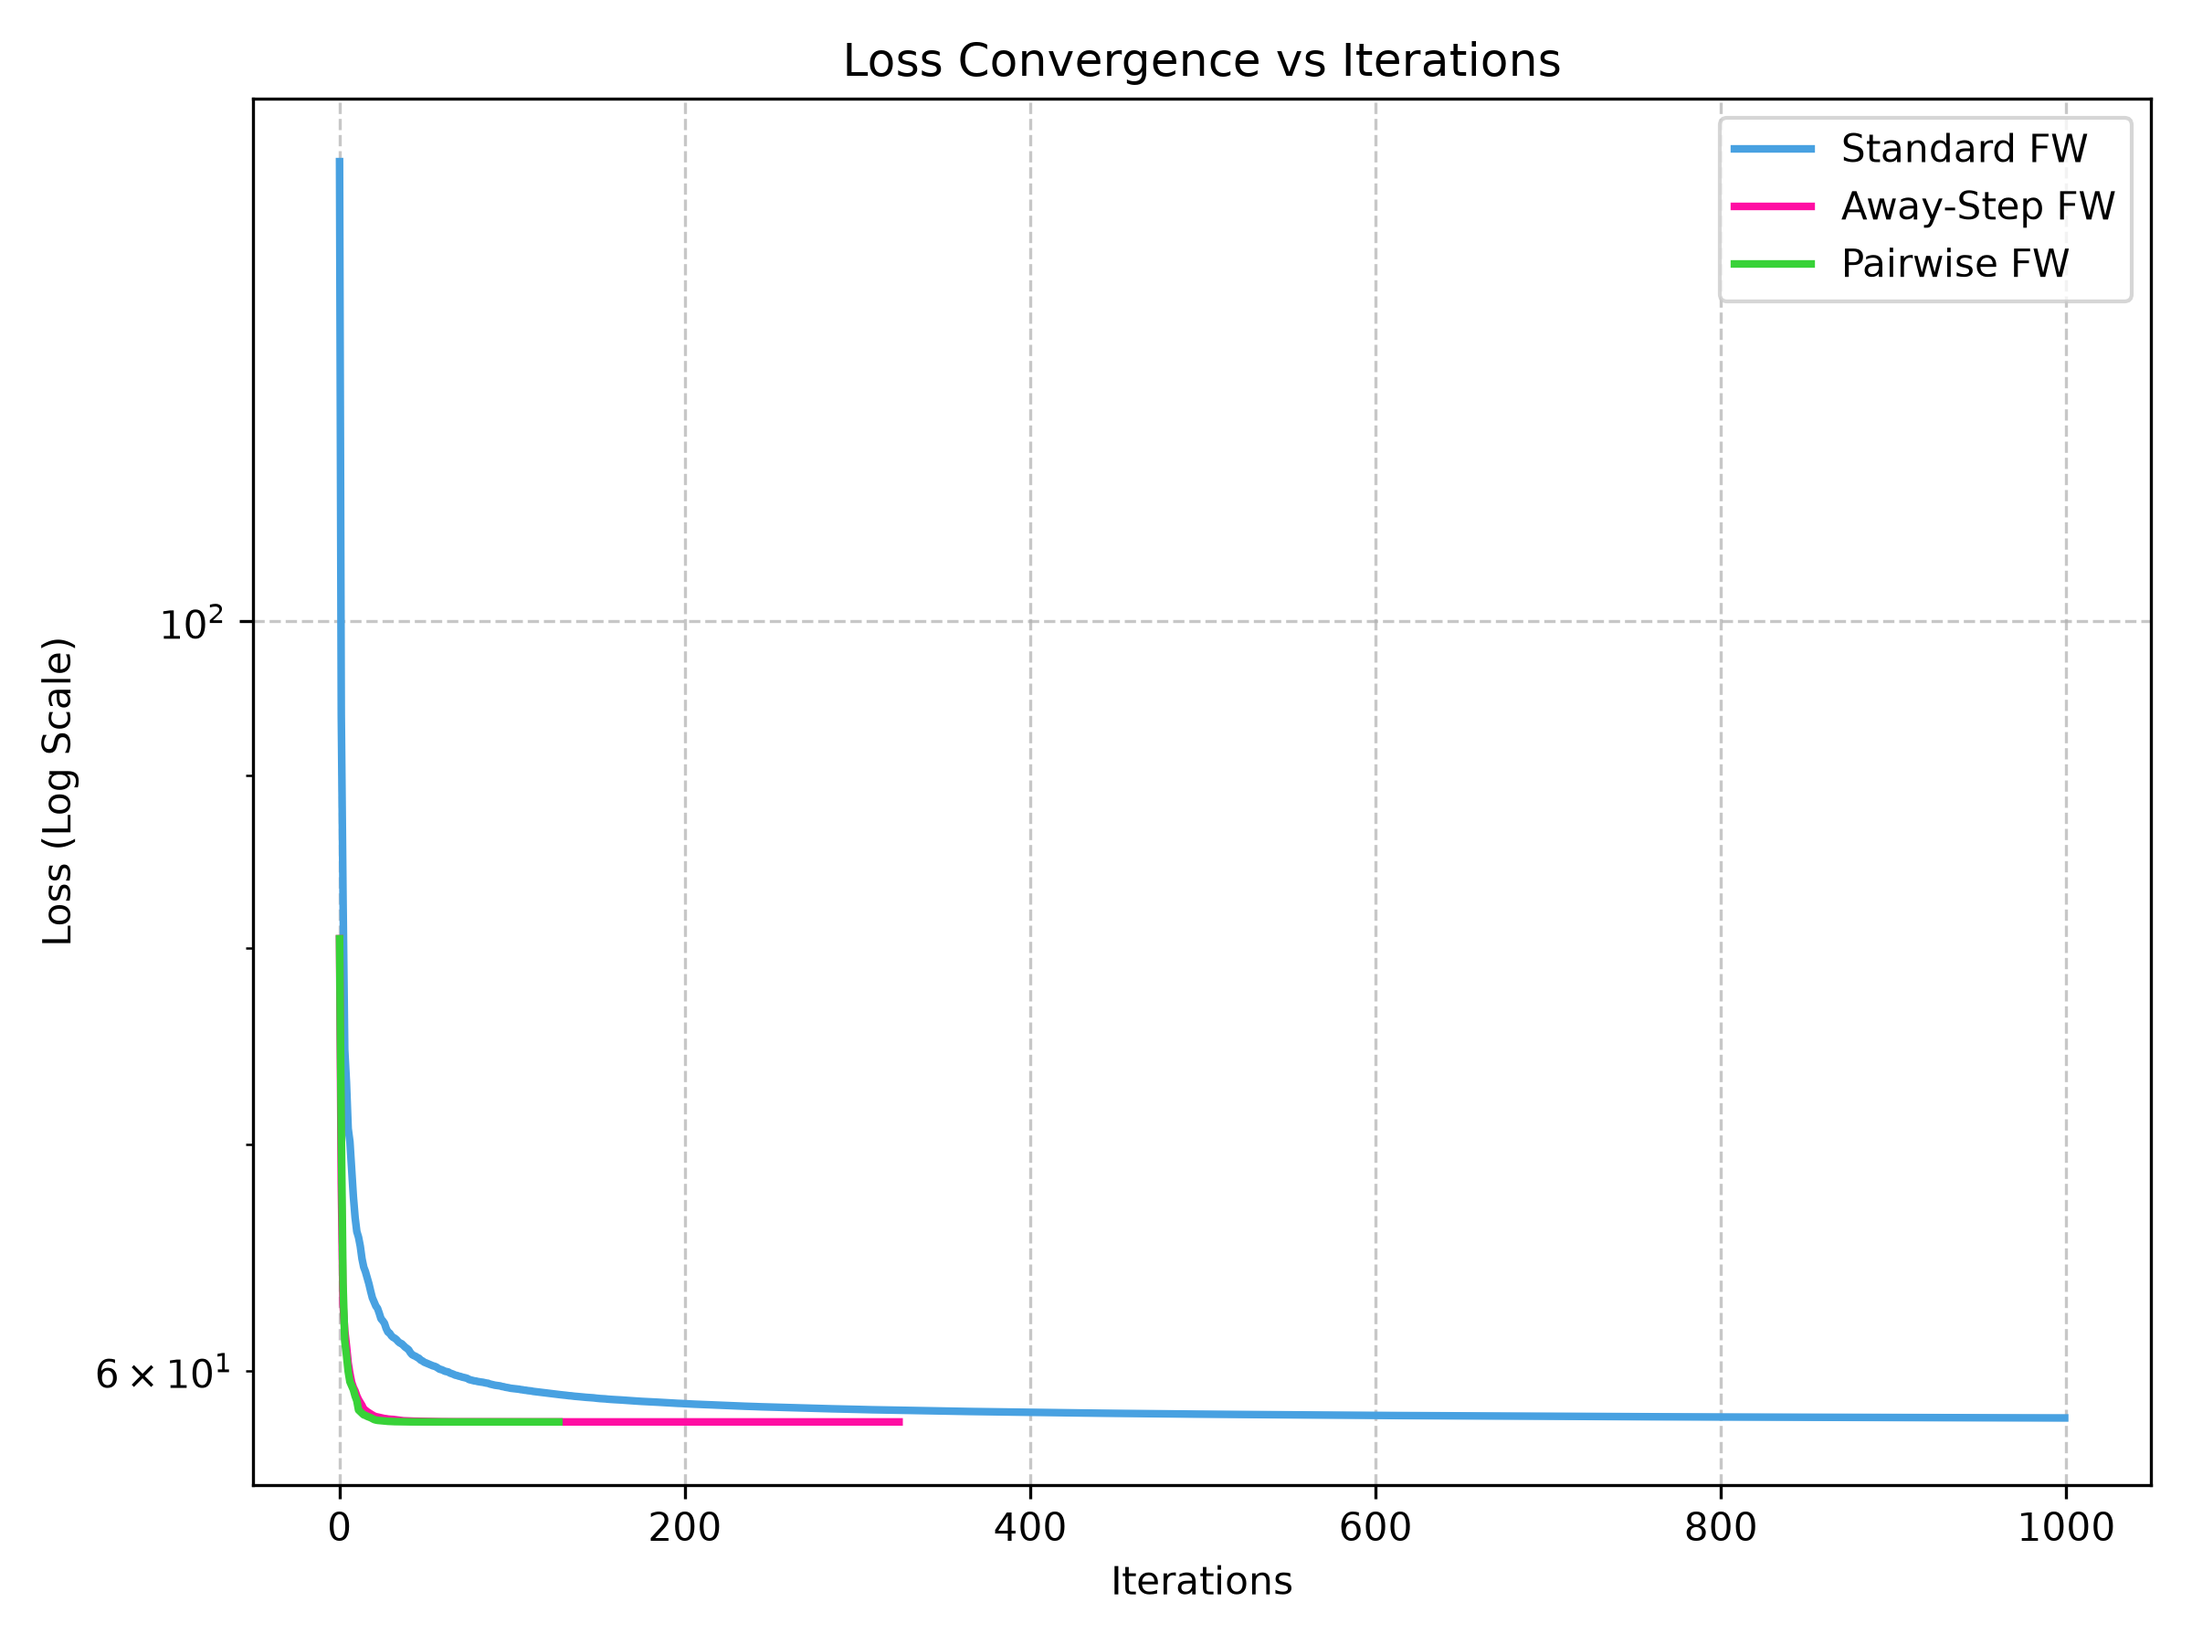
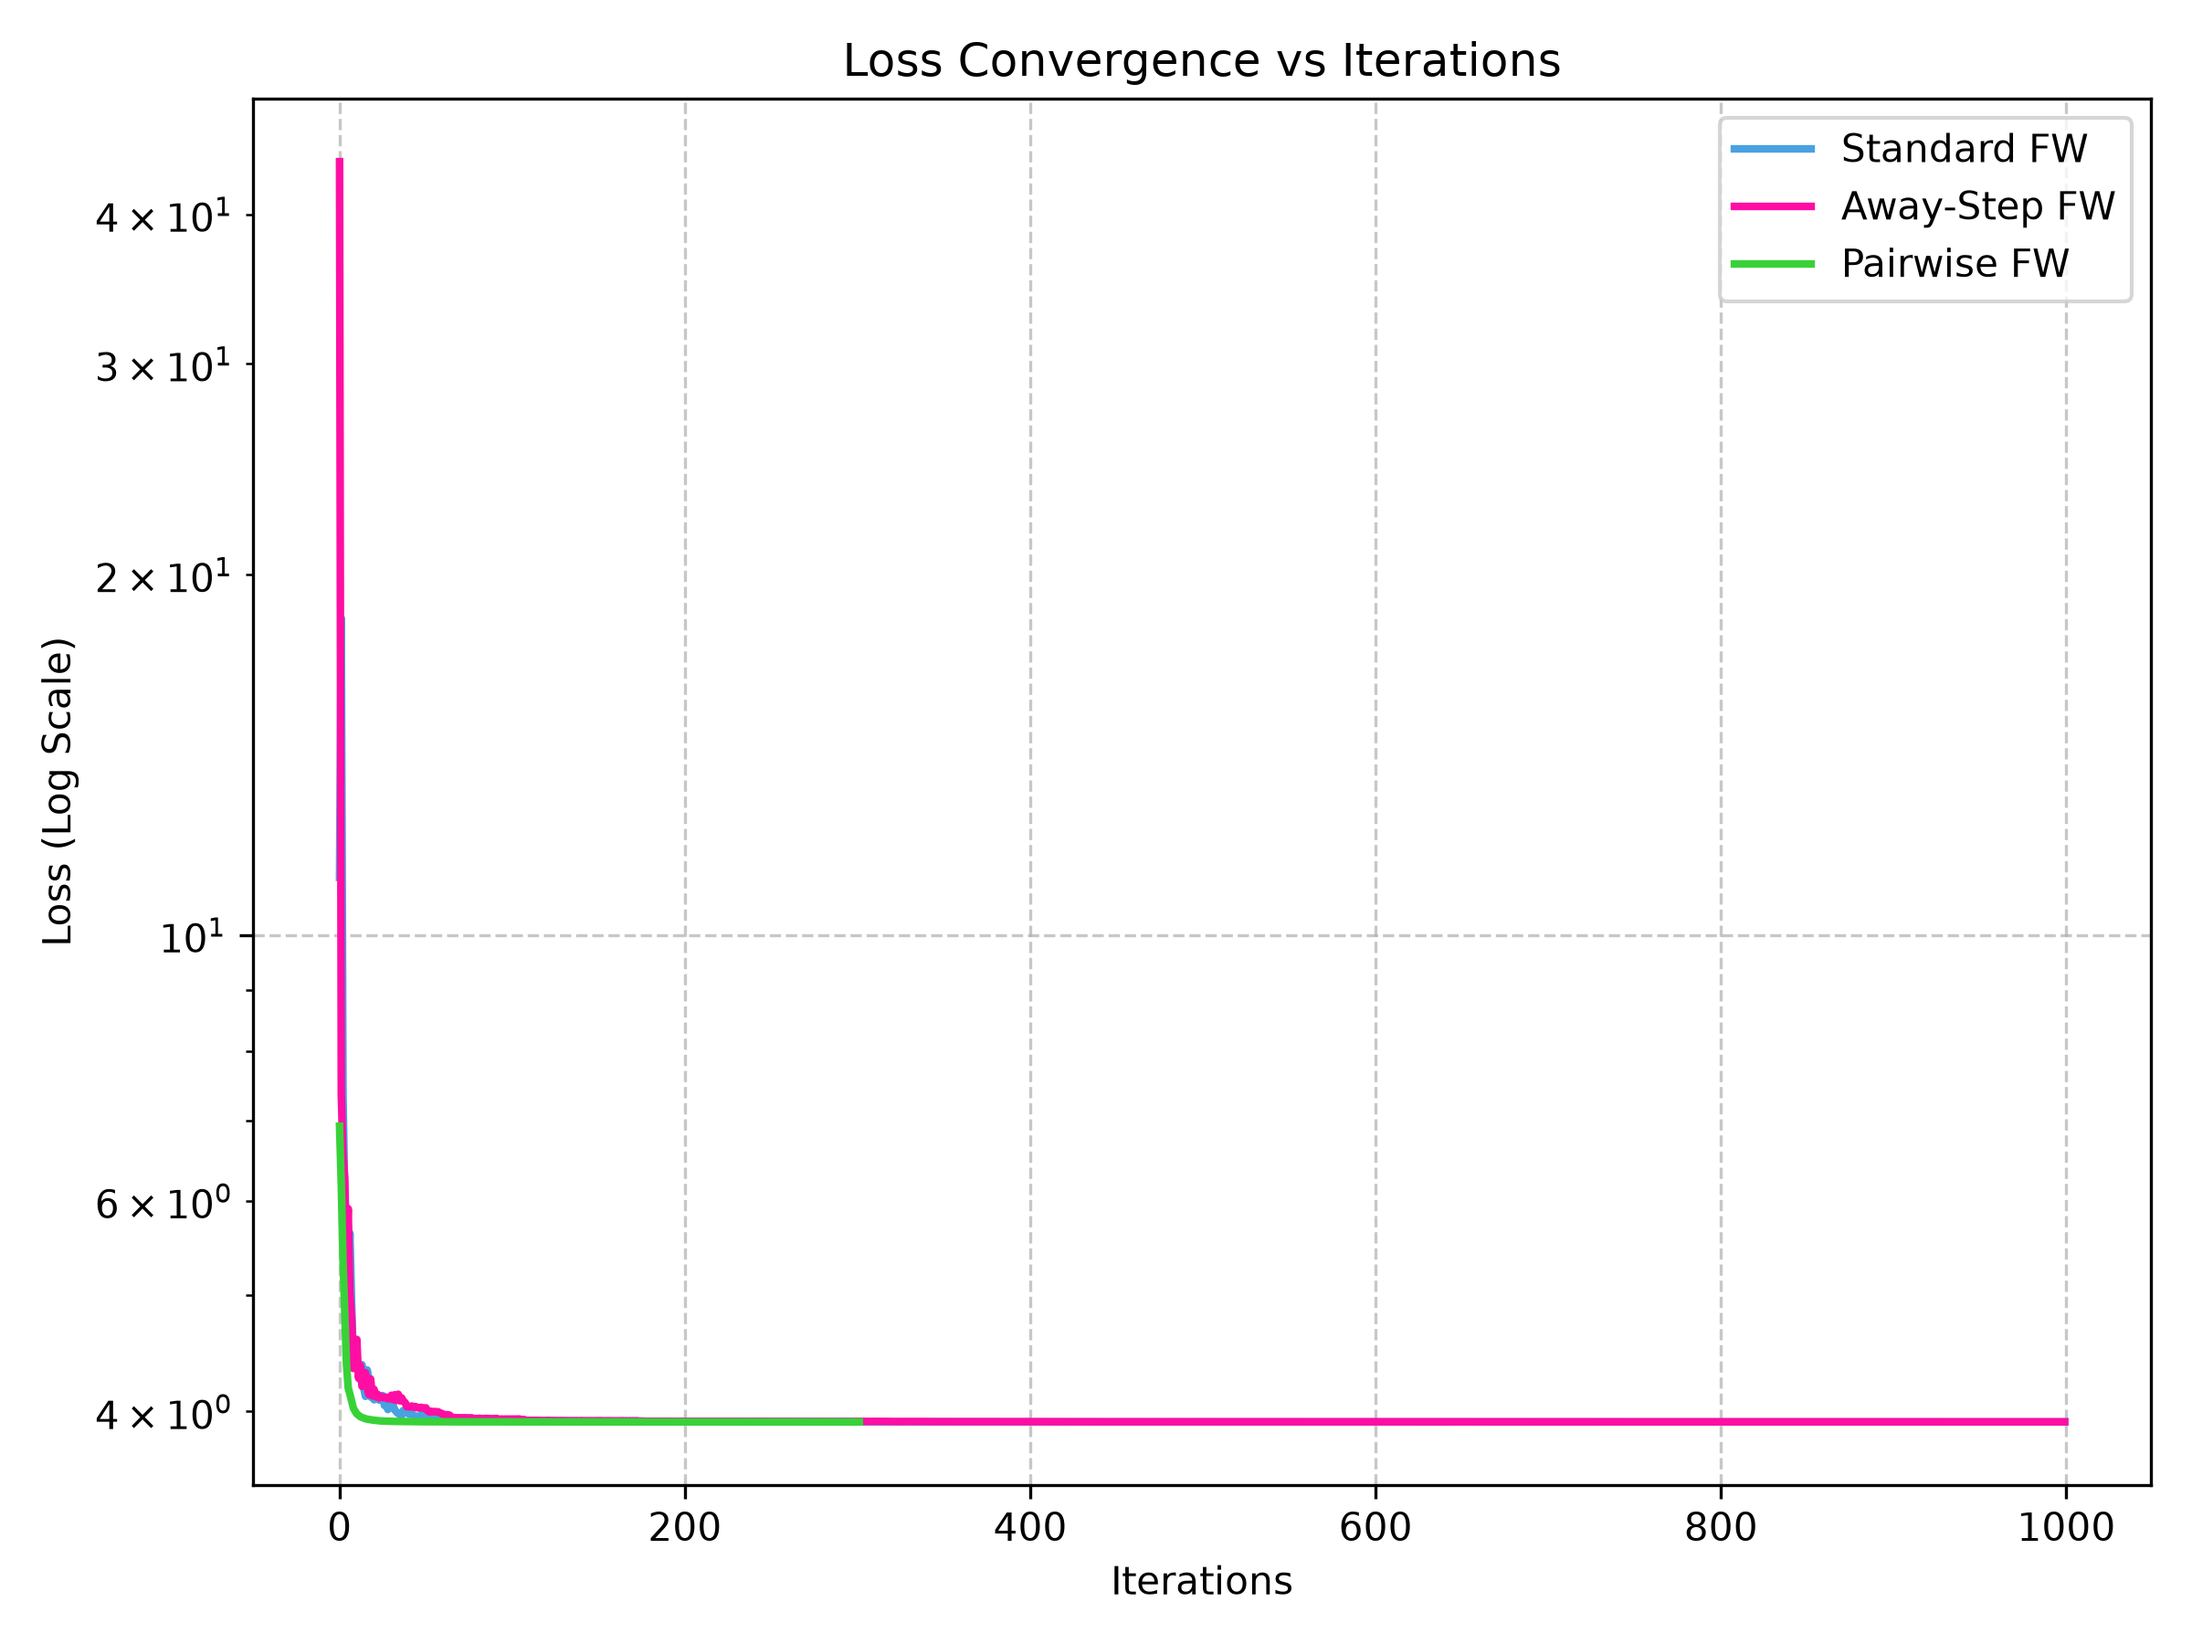
prova di implementazione diminuishing stepsize

diff --git a/algorithm.py b/algorithm.py
@@ -1,3 +1,4 @@
+from numpy.random import gamma
 import pandas as pd
 import numpy as np
 from sklearn.preprocessing import StandardScaler
@@ -69,13 +70,13 @@ def lmo_l1(gradient, tau):
 
 # 2. Frank-Wolfe algorithm for LASSO
 class FrankWolfeLasso:
-    def __init__(self, tau, max_iter=1000, tolerance=1e-4, w_tolerance=1e-8):
+    def __init__(self, tau, step_size='exact', max_iter=1000, tolerance=1e-4, w_tolerance=1e-8):
         self.tau = tau
+        self.step_size = step_size
         self.iter = max_iter
         self.tol = tolerance
         self.w_tolerance = w_tolerance
         self.convergence = False
-
 
         self.history_loss = []
         self.history_gap = []
@@ -102,16 +103,21 @@ class FrankWolfeLasso:
     def predict(self, X):
         return np.asarray(X, dtype=float) @ self.x_t
 
-    def predict_original_scale(self, X, y_scaler):
-        y_pred_scaled = self.predict(X)
-
-        return y_scaler.inverse_transform(
-            y_pred_scaled.reshape(-1, 1)
-        ).ravel()
-
     def mse_score(self, X, y):
         y_pred = self.predict(X)
         return np.mean((np.asarray(y) - y_pred) ** 2)
+
+    def line_search(self, X, grad, direction, gamma_max=1.0):
+        Xd = X @ direction
+        den = np.sum(Xd ** 2)
+        if den < 1e-10:
+            return 0.0
+
+        opt_alpha = -np.dot(grad, direction) / den
+        return np.clip(opt_alpha, 0.0, gamma_max)
+    
+    def diminishing_step_size(self, t, gamma_max=1.0):
+        return min(2.0 / (t + 2.0), gamma_max)
     
     def fit(self, X, y):
         n_samples, n_features = X.shape
@@ -136,30 +142,28 @@ class FrankWolfeLasso:
             
             # 5. stopping criterion: if the gap is smaller than the tolerance, we stop
             if gap <= self.tol:
+                self.update_history(X, y, gap, t0, self.mse_score(X, y))
                 print(f"self.convergence obtained at iteration {t} with gap: {gap:.6f}")
-                self.convergence = True
             
             # 6. line search, choose gamma (learning rate)
-            Xd = X @ d_t
-            opt_gamma = gap / (np.sum(Xd ** 2) + 1e-10) 
-            
-            gamma = np.clip(opt_gamma, 0.0, 1.0)
+            if self.step_size == 'exact':
+                gamma = self.line_search(X, grad, d_t)
+            elif self.step_size == 'diminishing':
+                gamma = self.diminishing_step_size(t)
+            else:
+                raise ValueError("step_size must be either 'exact' or 'diminishing'")
             
             self.x_t = self.x_t + gamma * d_t
 
-            mse = self.mse_score(X, y)
-
-            self.update_history(X, y, gap, t0, mse)
-
-            if self.convergence:
-                break
+            self.update_history(X, y, gap, t0, self.mse_score(X, y))
             
         return self.x_t
 
 # 3. Away-step Frank-Wolfe for LASSO
 class AwayStepsFrankWolfeLasso:
-    def __init__(self, tau, max_iter=1000, tolerance=1e-4, w_tolerance=1e-8):
+    def __init__(self, tau, step_size='exact', max_iter=1000, tolerance=1e-4, w_tolerance=1e-8):
         self.tau = tau
+        self.step_size = step_size
         self.iter = max_iter
         self.tol = tolerance
         self.w_tolerance = w_tolerance
@@ -190,39 +194,21 @@ class AwayStepsFrankWolfeLasso:
     def predict(self, X):
         return np.asarray(X, dtype=float) @ self.x_t
 
-    def predict_original_scale(self, X, y_scaler):
-        y_pred_scaled = self.predict(X)
-
-        return y_scaler.inverse_transform(
-            y_pred_scaled.reshape(-1, 1)
-        ).ravel()
-
     def mse_score(self, X, y):
         y_pred = self.predict(X)
         return np.mean((np.asarray(y) - y_pred) ** 2)
 
-    def exact_line_search(self, X, y, grad, direction, alpha_max):
-        if np.max(np.abs(direction)) < 1e-14:
-            alpha = 0.0
-        else:
-            Xd = X @ direction
-            den = np.sum(Xd ** 2)
-            if den < 1e-10:
-                alpha = 0.0
-            else:
-                opt_alpha = -np.dot(grad, direction) / den
-                alpha = np.clip(opt_alpha, 0.0, alpha_max)
-        return alpha
-
-    def line_search(self, X, y, grad, direction, alpha_max):
+    def line_search(self, X, grad, direction, gamma_max):
         Xd = X @ direction
         den = np.sum(Xd ** 2)
         if den < 1e-10:
-            alpha = 0.0
-        else:
-            opt_alpha = -np.dot(grad, direction) / den
-            alpha = np.clip(opt_alpha, 0.0, alpha_max)
-        return alpha
+            return 0.0
+
+        opt_alpha = -np.dot(grad, direction) / den
+        return np.clip(opt_alpha, 0.0, gamma_max)
+
+    def diminishing_step_size(self, t, gamma_max):
+        return min(2.0 / (t + 2.0), gamma_max)
     
     def fit(self, X, y):
         n_samples, n_features = X.shape
@@ -268,7 +254,8 @@ class AwayStepsFrankWolfeLasso:
 
             if fw_gap <= self.tol:
                 print(f"self.convergence obtained at iteration {i} with gap: {fw_gap:.6f}")
-                self.convergence = True
+                self.update_history(X, y, fw_gap, t0, self.mse_score(X, y))   
+                break
 
             # direction and overflow protection
             away_gap = -np.dot(grad, self.x_t - v_vec)
@@ -287,7 +274,12 @@ class AwayStepsFrankWolfeLasso:
                 is_fw_step = False
 
             # EXACT LINE SEARCH
-            alpha = self.line_search(X, y, grad, direction, alpha_max)
+            if self.step_size == 'exact':
+                alpha = self.line_search(X, grad, direction, alpha_max)
+            elif self.step_size == 'diminishing':
+                alpha = self.diminishing_step_size(i, alpha_max)
+            else:
+                raise ValueError("step_size must be either 'exact' or 'diminishing'")
 
             # UPDATE x
             self.x_t = self.x_t + alpha * direction
@@ -325,18 +317,14 @@ class AwayStepsFrankWolfeLasso:
             #     self.weights[v_key] = 0.0
             #     del self.weights[v_key]
 
-            mse = self.mse_score(X, y)  
-
-            self.update_history(X, y, fw_gap, t0, mse)   
-
-            if self.convergence:
-                break
+            self.update_history(X, y, fw_gap, t0, self.mse_score(X, y))
 
         return self.x_t
 
 class PairwiseFrankWolfeLasso:
-    def __init__(self, tau, max_iter=1000, tolerance=1e-4, w_tolerance=1e-8):
+    def __init__(self, tau, step_size = 'exact', max_iter=1000, tolerance=1e-4, w_tolerance=1e-8):
         self.tau = tau
+        self.step_size = step_size
         self.iter = max_iter
         self.tol = tolerance
         self.w_tolerance = w_tolerance
@@ -368,26 +356,21 @@ class PairwiseFrankWolfeLasso:
     def predict(self, X):
         return np.asarray(X, dtype=float) @ self.x_t
 
-    def predict_original_scale(self, X, y_scaler):
-        y_pred_scaled = self.predict(X)
-
-        return y_scaler.inverse_transform(
-            y_pred_scaled.reshape(-1, 1)
-        ).ravel()
-
     def mse_score(self, X, y):
         y_pred = self.predict(X)
         return np.mean((np.asarray(y) - y_pred) ** 2)
 
-    def line_search(self, X, y, grad, direction, alpha_max):
+    def line_search(self, X, grad, direction, gamma_max):
         Xd = X @ direction
         den = np.sum(Xd ** 2)
         if den < 1e-10:
-            alpha = 0.0
-        else:
-            opt_alpha = -np.dot(grad, direction) / den
-            alpha = np.clip(opt_alpha, 0.0, alpha_max)
-        return alpha
+            return 0.0
+
+        opt_alpha = -np.dot(grad, direction) / den
+        return np.clip(opt_alpha, 0.0, gamma_max)
+
+    def diminishing_step_size(self, t, gamma_max):
+        return min(2.0 / (t + 2.0), gamma_max)
         
     def fit(self, X, y):
         n_samples, n_features = X.shape
@@ -442,7 +425,12 @@ class PairwiseFrankWolfeLasso:
             alpha_max = self.weights[v_key]
 
             # 6. EXACT LINE SEARCH
-            alpha = self.line_search(X, y, grad, direction, alpha_max)
+            if self.step_size == 'exact':
+                alpha = self.line_search(X, grad, direction, alpha_max)
+            elif self.step_size == 'diminishing':
+                alpha = self.diminishing_step_size(i, alpha_max)
+            else:
+                raise ValueError("step_size must be either 'exact' or 'diminishing'")
 
             # 7. UPDATE x
             self.x_t = self.x_t + alpha * direction

diff --git a/main.py b/main.py
@@ -16,21 +16,25 @@ PLOT = True
 
 print("1. Loading dataset...")
 
-# file_name = 'data/riboflavin.csv' 
-file_name = 'data/wikivital_mathematics.json'
+file_name = 'data/riboflavin.csv' 
+# file_name = 'data/wikivital_mathematics.json'
 
-# X, Y = read_data.csv(file_name)
-X, Y = read_data.json(file_name)
+X, Y = read_data.csv(file_name)
+# X, Y = read_data.json(file_name)
 
 # 0.12 ee (12/76)
-X_temp, X_test, y_temp, y_test = train_test_split(X, Y, test_size=0.12, random_state=42)
-X_train, X_val, y_train, y_val = train_test_split(X_temp, y_temp, test_size=(0.12/0.76), random_state=42) # 0.25 x 0.8 = 0.2
+X_temp, X_test, y_temp, y_test = train_test_split(X, Y, test_size=0.15, random_state=42, shuffle=False)
+X_train, X_val, y_train, y_val = train_test_split(X_temp, y_temp, test_size=(0.15/0.85), random_state=42, shuffle=False) # 0.25 x 0.8 = 0.2
 
 # X_train, X_val, y_train, y_val = train_test_split(X, Y, test_size=0.1, random_state=42) # 0.25 x 0.8 = 0.2
 
-print("\nTraining size: ", len(X_train))
-print("Validation size: ", len(X_val))
-# print("Test size: ", len(X_test))
+print("\nTraining size: ", X_train.shape)
+print("Validation size: ", X_val.shape)
+print("Test size: ", X_test.shape)
+
+print("\nTraining targets: ", y_train.shape)
+print("Validation targets: ", y_val.shape)
+print("Test targets: ", y_test.shape)
 
 print(f"Dataset dimensions: {X.shape[0]} observations, {X.shape[1]} features (genes)")
 
@@ -57,7 +61,7 @@ print(f"\n---> INITIAL LOSS (Baseline with zero weights): {baseline_loss:.4f} <-
 print(f"---> L1 Radius (Tau) set to: {TAU} <---")
 
 print("\n3. Standard Frank-Wolfe execution...")
-FWL = FrankWolfeLasso(tau=TAU, max_iter=ITER, tolerance=TOLERANCE)
+FWL = FrankWolfeLasso(tau=TAU, step_size='diminishing', max_iter=ITER, tolerance=TOLERANCE)
 fw_fitted = FWL.fit(X_train, y_train)
 loss_fw, gap_fw, time_fw, spars_fw, mse_fw = FWL.get_history()
 fw_non_zero_weights = FWL.get_number_non_zero_weights()
@@ -70,9 +74,28 @@ print(f"Final loss: {loss_fw[-1]:.4f}")
 print(f"Final gap: {gap_fw[-1]:.6f}")
 print(f"Selected features: {fw_non_zero_weights} out of {X_train.shape[1]}")
 print(f"MSE on Val Set: {FWL.mse_score(X_val, y_val):.4f}")
+pred = FWL.predict(X_val)
+pred = pred.reshape(-1, 1)
+pred = scaler_y.inverse_transform(pred)
+y_val_real = scaler_y.inverse_transform(y_val.reshape(-1, 1))
+print(pred - y_val_real)
+
+data2 = np.concatenate((X_train, X_val), axis=0)
+y2 = np.concatenate((y_train, y_val), axis=0)
+
+FWL = FrankWolfeLasso(tau=TAU, step_size='diminishing',max_iter=ITER, tolerance=TOLERANCE)
+fw_fitted = FWL.fit(data2, y2)
+pred = FWL.predict(X_test)
+pred = pred.reshape(-1, 1)
+pred = scaler_y.inverse_transform(pred)
+y_test_real = scaler_y.inverse_transform(y_test.reshape(-1, 1))
+print(pred - y_test_real)
+print(f"MSE on Test Set: {FWL.mse_score(X_test, y_test):.4f}")
+
+
 
 print("\n4. Away-Step Frank-Wolfe (AFW) execution...")
-AFWL = AwayStepsFrankWolfeLasso(tau=TAU, max_iter=ITER, tolerance=TOLERANCE)
+AFWL = AwayStepsFrankWolfeLasso(tau=TAU, step_size='diminishing', max_iter=ITER, tolerance=TOLERANCE)
 afw_fittet = AFWL.fit(X_train, y_train)
 loss_afw, gap_afw, time_afw, spars_afw, mse_afw = AFWL.get_history()
 afw_non_zero_weights = AFWL.get_number_non_zero_weights()

diff --git a/utils.py b/utils.py
@@ -3,6 +3,12 @@ import json
 import numpy as np
 import pandas as pd
 
+def sort_by_time(time_data, gap_data):
+    time_arr = np.array(time_data)
+    gap_arr = np.array(gap_data)
+    sort_indices = np.argsort(time_arr)
+    return time_arr[sort_indices], gap_arr[sort_indices]
+
 class plot:
     def __init__(self, fw, afw, pfw, name, folder = 'image'):
         pass
@@ -67,6 +73,7 @@ class plot:
 
     #  4: Duality Gap vs CPU Time (Efficienza)
     def efficiency(time_fw, time_afw, time_pfw, gap_fw, gap_afw, gap_pfw, log_scale = False, color_fw = "#48a1e1", color_afw = "#ff0ea3", color_pfw = "#38d238", name = 'image/4_cpu_time.png'):
+
         plt.figure(figsize=(8, 6))
         plt.plot(time_fw, gap_fw, label='Standard FW', color=color_fw, linewidth=2)
         plt.plot(time_afw, gap_afw, label='Away-Step FW', color=color_afw, linewidth=2)
